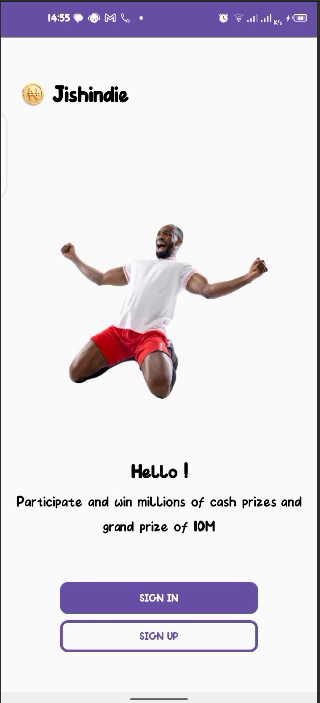
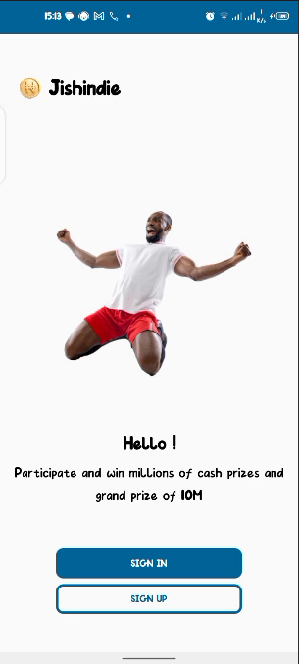
update readme

diff --git a/app/src/main/java/com/emmutua/authscreens/ui/theme/Theme.kt b/app/src/main/java/com/emmutua/authscreens/ui/theme/Theme.kt
@@ -14,27 +14,72 @@ import androidx.compose.ui.graphics.toArgb
 import androidx.compose.ui.platform.LocalContext
 import androidx.compose.ui.platform.LocalView
 import androidx.core.view.WindowCompat
+import com.example.compose.*
 
-private val DarkColorScheme = darkColorScheme(
-        primary = Purple80,
-        secondary = PurpleGrey80,
-        tertiary = Pink80
+
+private val LightColors = lightColorScheme(
+    primary = md_theme_light_primary,
+    onPrimary = md_theme_light_onPrimary,
+    primaryContainer = md_theme_light_primaryContainer,
+    onPrimaryContainer = md_theme_light_onPrimaryContainer,
+    secondary = md_theme_light_secondary,
+    onSecondary = md_theme_light_onSecondary,
+    secondaryContainer = md_theme_light_secondaryContainer,
+    onSecondaryContainer = md_theme_light_onSecondaryContainer,
+    tertiary = md_theme_light_tertiary,
+    onTertiary = md_theme_light_onTertiary,
+    tertiaryContainer = md_theme_light_tertiaryContainer,
+    onTertiaryContainer = md_theme_light_onTertiaryContainer,
+    error = md_theme_light_error,
+    errorContainer = md_theme_light_errorContainer,
+    onError = md_theme_light_onError,
+    onErrorContainer = md_theme_light_onErrorContainer,
+    background = md_theme_light_background,
+    onBackground = md_theme_light_onBackground,
+    surface = md_theme_light_surface,
+    onSurface = md_theme_light_onSurface,
+    surfaceVariant = md_theme_light_surfaceVariant,
+    onSurfaceVariant = md_theme_light_onSurfaceVariant,
+    outline = md_theme_light_outline,
+    inverseOnSurface = md_theme_light_inverseOnSurface,
+    inverseSurface = md_theme_light_inverseSurface,
+    inversePrimary = md_theme_light_inversePrimary,
+    surfaceTint = md_theme_light_surfaceTint,
+    outlineVariant = md_theme_light_outlineVariant,
+    scrim = md_theme_light_scrim,
 )
 
-private val LightColorScheme = lightColorScheme(
-        primary = Purple40,
-        secondary = PurpleGrey40,
-        tertiary = Pink40
 
-        /* Other default colors to override
-    background = Color(0xFFFFFBFE),
-    surface = Color(0xFFFFFBFE),
-    onPrimary = Color.White,
-    onSecondary = Color.White,
-    onTertiary = Color.White,
-    onBackground = Color(0xFF1C1B1F),
-    onSurface = Color(0xFF1C1B1F),
-    */
+private val DarkColors = darkColorScheme(
+    primary = md_theme_dark_primary,
+    onPrimary = md_theme_dark_onPrimary,
+    primaryContainer = md_theme_dark_primaryContainer,
+    onPrimaryContainer = md_theme_dark_onPrimaryContainer,
+    secondary = md_theme_dark_secondary,
+    onSecondary = md_theme_dark_onSecondary,
+    secondaryContainer = md_theme_dark_secondaryContainer,
+    onSecondaryContainer = md_theme_dark_onSecondaryContainer,
+    tertiary = md_theme_dark_tertiary,
+    onTertiary = md_theme_dark_onTertiary,
+    tertiaryContainer = md_theme_dark_tertiaryContainer,
+    onTertiaryContainer = md_theme_dark_onTertiaryContainer,
+    error = md_theme_dark_error,
+    errorContainer = md_theme_dark_errorContainer,
+    onError = md_theme_dark_onError,
+    onErrorContainer = md_theme_dark_onErrorContainer,
+    background = md_theme_dark_background,
+    onBackground = md_theme_dark_onBackground,
+    surface = md_theme_dark_surface,
+    onSurface = md_theme_dark_onSurface,
+    surfaceVariant = md_theme_dark_surfaceVariant,
+    onSurfaceVariant = md_theme_dark_onSurfaceVariant,
+    outline = md_theme_dark_outline,
+    inverseOnSurface = md_theme_dark_inverseOnSurface,
+    inverseSurface = md_theme_dark_inverseSurface,
+    inversePrimary = md_theme_dark_inversePrimary,
+    surfaceTint = md_theme_dark_surfaceTint,
+    outlineVariant = md_theme_dark_outlineVariant,
+    scrim = md_theme_dark_scrim,
 )
 
 @Composable
@@ -50,8 +95,8 @@ fun AuthScreensTheme(
             if (darkTheme) dynamicDarkColorScheme(context) else dynamicLightColorScheme(context)
         }
 
-        darkTheme -> DarkColorScheme
-        else -> LightColorScheme
+        darkTheme -> DarkColors
+        else -> LightColors
     }
     val view = LocalView.current
     if (!view.isInEditMode) {

diff --git a/app/src/main/java/com/emmutua/authscreens/ui/theme/Color.kt b/app/src/main/java/com/emmutua/authscreens/ui/theme/Color.kt
@@ -1,11 +1,67 @@
-package com.emmutua.authscreens.ui.theme
-
+package com.example.compose
 import androidx.compose.ui.graphics.Color
 
-val Purple80 = Color(0xFFD0BCFF)
-val PurpleGrey80 = Color(0xFFCCC2DC)
-val Pink80 = Color(0xFFEFB8C8)
+val md_theme_light_primary = Color(0xFF006398)
+val md_theme_light_onPrimary = Color(0xFFFFFFFF)
+val md_theme_light_primaryContainer = Color(0xFFCDE5FF)
+val md_theme_light_onPrimaryContainer = Color(0xFF001D32)
+val md_theme_light_secondary = Color(0xFF51606F)
+val md_theme_light_onSecondary = Color(0xFFFFFFFF)
+val md_theme_light_secondaryContainer = Color(0xFFD4E4F6)
+val md_theme_light_onSecondaryContainer = Color(0xFF0D1D2A)
+val md_theme_light_tertiary = Color(0xFF67587A)
+val md_theme_light_onTertiary = Color(0xFFFFFFFF)
+val md_theme_light_tertiaryContainer = Color(0xFFEDDCFF)
+val md_theme_light_onTertiaryContainer = Color(0xFF221533)
+val md_theme_light_error = Color(0xFFBA1A1A)
+val md_theme_light_errorContainer = Color(0xFFFFDAD6)
+val md_theme_light_onError = Color(0xFFFFFFFF)
+val md_theme_light_onErrorContainer = Color(0xFF410002)
+val md_theme_light_background = Color(0xFFFCFCFF)
+val md_theme_light_onBackground = Color(0xFF1A1C1E)
+val md_theme_light_surface = Color(0xFFFCFCFF)
+val md_theme_light_onSurface = Color(0xFF1A1C1E)
+val md_theme_light_surfaceVariant = Color(0xFFDEE3EB)
+val md_theme_light_onSurfaceVariant = Color(0xFF42474E)
+val md_theme_light_outline = Color(0xFF72787E)
+val md_theme_light_inverseOnSurface = Color(0xFFF0F0F4)
+val md_theme_light_inverseSurface = Color(0xFF2F3033)
+val md_theme_light_inversePrimary = Color(0xFF93CCFF)
+val md_theme_light_shadow = Color(0xFF000000)
+val md_theme_light_surfaceTint = Color(0xFF006398)
+val md_theme_light_outlineVariant = Color(0xFFC2C7CE)
+val md_theme_light_scrim = Color(0xFF000000)
 
-val Purple40 = Color(0xFF6650a4)
-val PurpleGrey40 = Color(0xFF625b71)
-val Pink40 = Color(0xFF7D5260)
+val md_theme_dark_primary = Color(0xFF93CCFF)
+val md_theme_dark_onPrimary = Color(0xFF003352)
+val md_theme_dark_primaryContainer = Color(0xFF004B74)
+val md_theme_dark_onPrimaryContainer = Color(0xFFCDE5FF)
+val md_theme_dark_secondary = Color(0xFFB8C8DA)
+val md_theme_dark_onSecondary = Color(0xFF23323F)
+val md_theme_dark_secondaryContainer = Color(0xFF394857)
+val md_theme_dark_onSecondaryContainer = Color(0xFFD4E4F6)
+val md_theme_dark_tertiary = Color(0xFFD2BFE7)
+val md_theme_dark_onTertiary = Color(0xFF382A4A)
+val md_theme_dark_tertiaryContainer = Color(0xFF4F4061)
+val md_theme_dark_onTertiaryContainer = Color(0xFFEDDCFF)
+val md_theme_dark_error = Color(0xFFFFB4AB)
+val md_theme_dark_errorContainer = Color(0xFF93000A)
+val md_theme_dark_onError = Color(0xFF690005)
+val md_theme_dark_onErrorContainer = Color(0xFFFFDAD6)
+val md_theme_dark_background = Color(0xFF1A1C1E)
+val md_theme_dark_onBackground = Color(0xFFE2E2E5)
+val md_theme_dark_surface = Color(0xFF1A1C1E)
+val md_theme_dark_onSurface = Color(0xFFE2E2E5)
+val md_theme_dark_surfaceVariant = Color(0xFF42474E)
+val md_theme_dark_onSurfaceVariant = Color(0xFFC2C7CE)
+val md_theme_dark_outline = Color(0xFF8C9198)
+val md_theme_dark_inverseOnSurface = Color(0xFF1A1C1E)
+val md_theme_dark_inverseSurface = Color(0xFFE2E2E5)
+val md_theme_dark_inversePrimary = Color(0xFF006398)
+val md_theme_dark_shadow = Color(0xFF000000)
+val md_theme_dark_surfaceTint = Color(0xFF93CCFF)
+val md_theme_dark_outlineVariant = Color(0xFF42474E)
+val md_theme_dark_scrim = Color(0xFF000000)
+
+
+val seed = Color(0xFF0077B5)

diff --git a/README.md b/README.md
@@ -1,1 +1,1 @@
-![img.png](img.png) ![img_3.png](img_3.png) ![img_4.png](img_4.png)
+![img.png](img.png) ![img_1.png](img_1.png) ![img_2.png](img_2.png)
